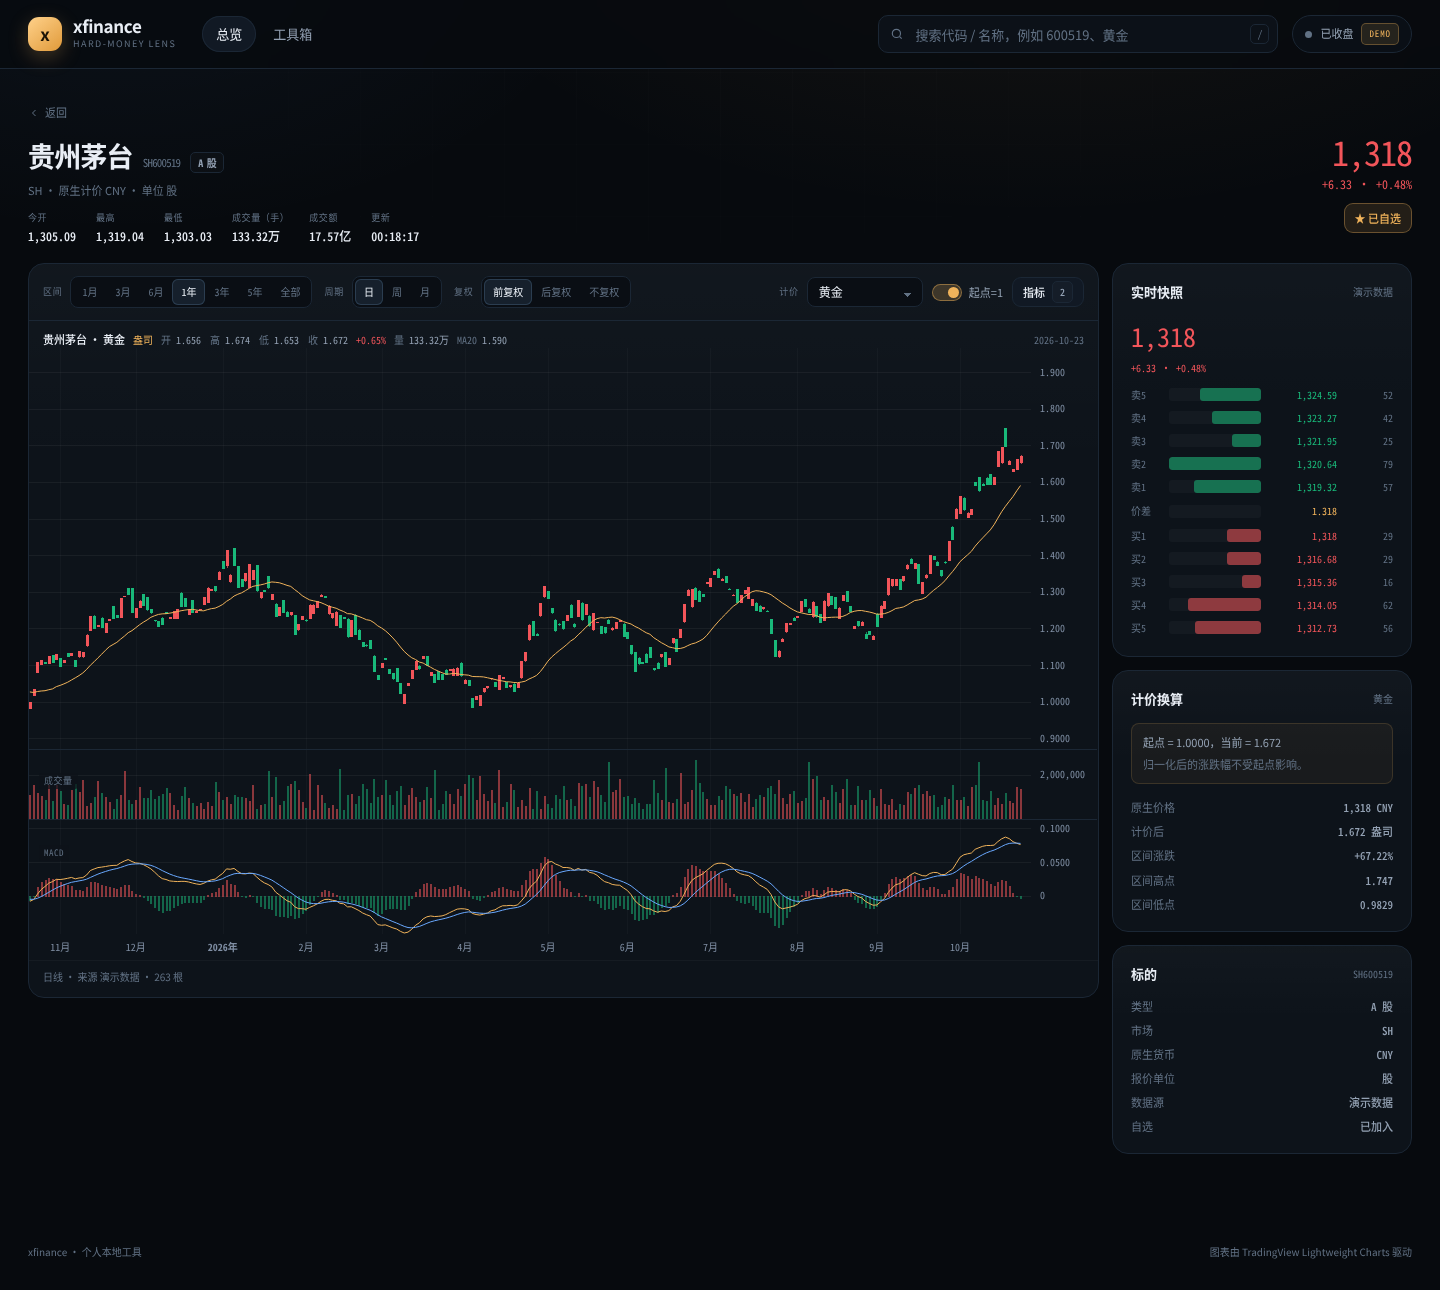
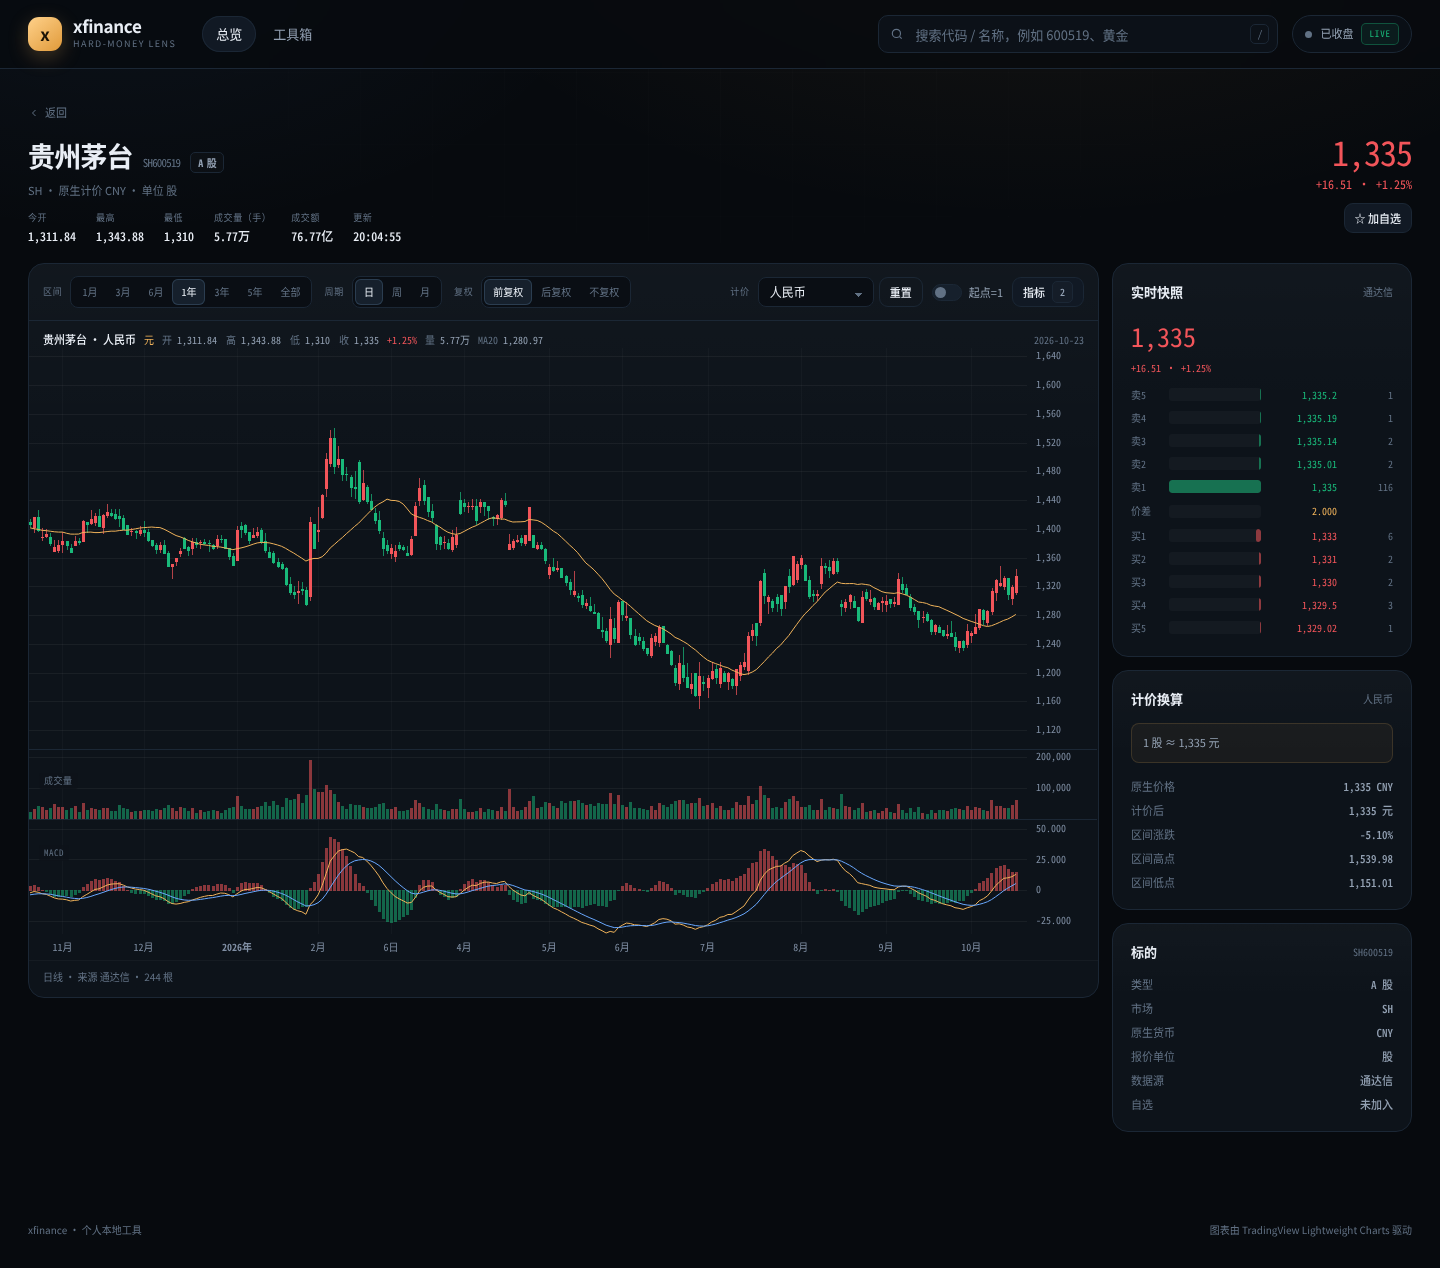
Reset pricing per symbol and clarify percentile distribution

diff --git a/frontend/src/views/CustomIndexView.vue b/frontend/src/views/CustomIndexView.vue
@@ -30,6 +30,44 @@ const windowOptions = [20, 60, 120, 250]
 const meta = computed(() => payload.value?.meta)
 const stats = computed(() => payload.value?.stats)
 
+const percentileSamples = computed(() => {
+  const values = payload.value?.percentile
+  if (!Array.isArray(values)) return []
+  return values.filter((value) => typeof value === 'number' && Number.isFinite(value))
+})
+
+const currentPercentile = computed(() => {
+  const value = stats.value?.percentile
+  if (typeof value !== 'number' || !Number.isFinite(value)) return null
+  return Math.min(100, Math.max(0, value))
+})
+
+const percentileBins = computed(() => {
+  const counts = Array(10).fill(0)
+  for (const value of percentileSamples.value) {
+    counts[Math.min(9, Math.max(0, Math.floor(value / 10)))] += 1
+  }
+  const peak = Math.max(...counts)
+  return counts.map((count, index) => ({
+    index,
+    count,
+    label: index === 9 ? '90-100%' : `${index * 10}-${index * 10 + 9}%`,
+    height: peak ? (count / peak) * 100 : 0,
+  }))
+})
+
+const activeBin = computed(() =>
+  currentPercentile.value === null ? -1 : Math.min(9, Math.floor(currentPercentile.value / 10)),
+)
+
+const percentileState = computed(() => {
+  const value = currentPercentile.value
+  if (value === null) return '分位数据不足'
+  if (value === 0) return '当前 0% · 窗口最低'
+  if (value === 100) return '当前 100% · 窗口最高'
+  return `当前 ${value.toFixed(0)}% · 近 ${windowSize.value} 日分位`
+})
+
 async function load() {
   controller?.abort()
   controller = new AbortController()
@@ -121,7 +159,10 @@ onBeforeUnmount(() => {
 
       <div class="metrics-grid">
         <div class="metric"><span>最新</span><strong>{{ fmtPrice(stats?.last) }}</strong></div>
-        <div class="metric"><span>{{ windowSize }} 日分位</span><strong>{{ stats?.percentile?.toFixed(0) }}%</strong></div>
+        <div class="metric">
+          <span>{{ windowSize }} 日分位</span>
+          <strong>{{ currentPercentile === null ? '—' : currentPercentile.toFixed(0) + '%' }}</strong>
+        </div>
         <div class="metric"><span>区间涨跌</span><strong :class="tone(stats?.change_pct)">{{ fmtPct(stats?.change_pct) }}</strong></div>
         <div class="metric"><span>区间高低</span><strong style="font-size: 13px">{{ fmtPrice(stats?.high) }} / {{ fmtPrice(stats?.low) }}</strong></div>
       </div>
@@ -184,13 +225,45 @@ onBeforeUnmount(() => {
       <section class="panel" style="margin-top: 13px">
         <div class="panel-head">
           <h2 class="panel-title">分位分布</h2>
-          <span class="panel-sub">{{ windowSize }} 日滚动窗口 · 当前 {{ stats?.percentile?.toFixed(0) }}%</span>
+          <span class="panel-sub">
+            {{ windowSize }} 日滚动窗口 · {{ percentileSamples.length }} 个样本
+          </span>
         </div>
-        <div class="pct-bar" style="height: 6px">
-          <span class="pct-fill" :style="{ width: `${stats?.percentile ?? 0}%` }"></span>
+        <div class="pct-current">{{ percentileState }}</div>
+        <div
+          v-if="percentileSamples.length"
+          class="pct-hist"
+          role="img"
+          :aria-label="`滚动分位分布，${percentileState}`"
+        >
+          <div
+            v-for="bin in percentileBins"
+            :key="bin.index"
+            class="pct-hist-col"
+            :class="{ active: bin.index === activeBin }"
+            :title="`${bin.label} · ${bin.count} 个样本`"
+          >
+            <span v-if="bin.count" class="pct-hist-bar" :style="{ height: `${bin.height}%` }"></span>
+          </div>
         </div>
-        <div class="tool-hint" style="margin-top: 9px">
-          0% 表示处在窗口最低位，100% 表示处在最高位。当前值在最近 {{ windowSize }} 个交易日中的相对位置。
+        <div v-else class="pct-hist-empty">当前区间没有可用的滚动分位样本</div>
+        <div class="pct-track" aria-hidden="true">
+          <span
+            v-if="currentPercentile !== null"
+            class="pct-marker"
+            :style="{ left: `${currentPercentile}%` }"
+          ></span>
+        </div>
+        <div class="pct-track-axis">
+          <span>0%</span>
+          <span>50%</span>
+          <span>100%</span>
+        </div>
+        <div class="tool-hint pct-caption">
+          柱高表示滚动分位落在该区间的样本占比。0% 表示当前值处于窗口最低位，是有效值。
+        </div>
+        <div class="tool-hint" style="margin-top: 4px">
+          100% 表示处在最高位。当前值在最近 {{ windowSize }} 个交易日中的相对位置。
         </div>
       </section>
     </template>

diff --git a/frontend/src/views/InstrumentView.vue b/frontend/src/views/InstrumentView.vue
@@ -35,7 +35,7 @@ const timeframe = ref('1d')
 const adjust = ref('qfq')
 const range = ref('1y')
 const normalize = ref(false)
-const numeraire = ref(prefs.numeraire || 'CNY')
+const numeraire = ref('CNY')
 let controller = null
 let snapshotTimer = null
 let snapController = null
@@ -101,6 +101,12 @@ const selectedUnit = computed(() => {
 })
 const quoted = computed(() => chartMeta.value?.quoted !== false && !chartMeta.value?.quote_error)
 const stats = computed(() => chart.value?.stats || null)
+const flatChart = computed(() => {
+  const bars = chart.value?.bars
+  if (!bars || bars.length < 2) return false
+  const first = bars[0].close
+  return bars.every((bar) => Math.abs(bar.close - first) <= 1e-9)
+})
 
 const conversion = computed(() => {
   if (!stats.value || !quoted.value || isYield.value) return null
@@ -221,12 +227,18 @@ async function loadNumeraires() {
   }
 }
 
+function resetPricing() {
+  numeraire.value = 'CNY'
+  normalize.value = false
+}
+
 async function loadAll() {
   loading.value = true
   error.value = ''
   meta.value = null
   snapshot.value = null
   chart.value = null
+  resetPricing()
   await loadNumeraires()
   try {
     await loadMeta()
@@ -281,7 +293,6 @@ watch(
 )
 
 watch([timeframe, adjust, numeraire, normalize, range, indicatorSpec], () => {
-  prefs.numeraire = numeraire.value
   if (!loading.value && meta.value) loadChart()
 })
 
@@ -416,6 +427,14 @@ onBeforeUnmount(() => {
                     </option>
                   </optgroup>
                 </select>
+                <button
+                  class="btn btn-sm btn-ghost"
+                  title="恢复人民币计价，并关闭起点归一化"
+                  :disabled="isYield"
+                  @click="resetPricing"
+                >
+                  重置
+                </button>
               </div>
 
               <label class="switch" :title="isYield ? '收益率不支持归一化' : '把区间起点换算为 1'">
@@ -442,6 +461,10 @@ onBeforeUnmount(() => {
 
           <div v-if="chartMeta?.quote_error" class="chart-note warn">
             计价序列不可用，已回退原生价格：{{ chartMeta.quote_error }}
+          </div>
+
+          <div v-if="flatChart" class="chart-note warn">
+            当前计价下价格恒定，可能是同一资产在用自身计价，请更换计价物。
           </div>
 
           <PriceChart

diff --git a/frontend/src/styles.css b/frontend/src/styles.css
@@ -945,6 +945,106 @@ main {
   letter-spacing: 0.04em;
 }
 
+/* ---------- percentile distribution ---------- */
+
+.pct-current {
+  color: var(--accent);
+  font-family: var(--font-mono);
+  font-size: 12px;
+  font-variant-numeric: tabular-nums;
+}
+
+.pct-hist {
+  display: flex;
+  align-items: flex-end;
+  gap: 4px;
+  width: 100%;
+  max-width: 520px;
+  height: 68px;
+  margin-top: 12px;
+}
+
+.pct-hist-col {
+  display: flex;
+  flex: 1 1 0;
+  align-items: flex-end;
+  min-width: 0;
+  height: 100%;
+  padding: 0 1px;
+  border-radius: 4px;
+  background: rgba(255, 255, 255, 0.03);
+}
+
+.pct-hist-col.active {
+  background: var(--accent-soft);
+  box-shadow: inset 0 0 0 1px rgba(240, 179, 91, 0.32);
+}
+
+.pct-hist-bar {
+  display: block;
+  width: 100%;
+  min-height: 2px;
+  border-radius: 3px;
+  background: var(--blue);
+  opacity: 0.5;
+}
+
+.pct-hist-col.active .pct-hist-bar {
+  background: linear-gradient(180deg, var(--accent), var(--blue));
+  opacity: 1;
+}
+
+.pct-hist-empty {
+  display: flex;
+  align-items: center;
+  justify-content: center;
+  width: 100%;
+  max-width: 520px;
+  height: 68px;
+  margin-top: 12px;
+  border: 1px dashed var(--border);
+  border-radius: var(--radius-sm);
+  color: var(--faint);
+  font-size: 10px;
+}
+
+.pct-track {
+  position: relative;
+  width: 100%;
+  max-width: 520px;
+  height: 4px;
+  margin-top: 14px;
+  border-radius: 999px;
+  background: var(--panel-3);
+}
+
+.pct-marker {
+  position: absolute;
+  top: -5px;
+  width: 2px;
+  height: 14px;
+  border-radius: 1px;
+  background: var(--accent);
+  box-shadow: 0 0 0 2px rgba(240, 179, 91, 0.16);
+  transform: translateX(-50%);
+}
+
+.pct-track-axis {
+  display: flex;
+  justify-content: space-between;
+  width: 100%;
+  max-width: 520px;
+  margin-top: 7px;
+  color: var(--faint);
+  font-family: var(--font-mono);
+  font-size: 9px;
+  letter-spacing: 0.04em;
+}
+
+.pct-caption {
+  margin-top: 9px;
+}
+
 /* ---------- buttons / chips / forms ---------- */
 
 .btn {
@@ -2107,6 +2207,13 @@ textarea.input {
   }
   .seg button {
     padding: 0 8px;
+  }
+  .pct-hist,
+  .pct-hist-empty {
+    height: 56px;
+  }
+  .pct-hist {
+    gap: 3px;
   }
   .side-panel {
     grid-template-columns: minmax(0, 1fr);

diff --git a/frontend/src/composables/useChartPrefs.js b/frontend/src/composables/useChartPrefs.js
@@ -9,14 +9,15 @@ const defaults = {
   macd: true,
   rsi: false,
   kdj: false,
-  numeraire: 'CNY',
 }
 
 function load() {
   try {
     const raw = window.localStorage.getItem(KEY)
     if (!raw) return { ...defaults }
-    return { ...defaults, ...JSON.parse(raw) }
+    const parsed = JSON.parse(raw)
+    delete parsed.numeraire
+    return { ...defaults, ...parsed }
   } catch {
     return { ...defaults }
   }

diff --git a/tests/test_api.py b/tests/test_api.py
@@ -2,6 +2,7 @@ from __future__ import annotations
 
 from uuid import uuid4
 
+import pytest
 from fastapi.testclient import TestClient
 
 
@@ -283,3 +284,33 @@ def test_yield_spread_expression(client: TestClient) -> None:
     data = check.json()["data"]
     assert data["basis"] == "%"
     assert 0 < data["last"] < 10
+
+
+def test_au9999_chart_in_cny_is_not_flat(client: TestClient) -> None:
+    payload = client.get(
+        "/api/instruments/AU9999/chart", params={"range": "1y", "numeraire": "CNY"}
+    ).json()["data"]
+    assert payload["stats"]["high"] > payload["stats"]["low"]
+
+
+def test_same_asset_numeraire_closes_at_one(client: TestClient) -> None:
+    payload = client.get(
+        "/api/instruments/AU9999/chart",
+        params={"range": "1y", "numeraire": "XAU_CNY_G"},
+    ).json()["data"]
+    assert all(bar["close"] == pytest.approx(1.0) for bar in payload["bars"])
+
+
+def test_custom_index_percentile_matches_last_series_value(client: TestClient) -> None:
+    created = client.post(
+        "/api/custom-indices",
+        json={"name": f"分位一致性{uuid4().hex[:8]}", "expression": "XAUUSD / WTIUSD"},
+    )
+    index_id = created.json()["data"]["id"]
+    payload = client.get(
+        f"/api/custom-indices/{index_id}/chart", params={"range": "1y", "window": 60}
+    ).json()["data"]
+    values = [value for value in payload["percentile"] if value is not None]
+    assert values
+    assert payload["stats"]["percentile"] == pytest.approx(values[-1])
+    client.delete(f"/api/custom-indices/{index_id}")

diff --git a/PLAN.md b/PLAN.md
@@ -150,7 +150,7 @@ SQLite WAL + busy_timeout。迁移由 Alembic 管理，启动时 upgrade head。
 | 前端 | 总览、标的、自定义指数、工具箱四个页面可在 Chrome 中操作；桌面与 390px 移动端截图核验，无横向溢出 |
 | 打包 | `uv build` 产出的 wheel 含 `frontend-build` 与迁移；装进全新虚拟环境后 `xfinance-app` 可启动并托管 SPA |
 
-测试总数 79，全部离线。
+测试总数 82，全部离线。
 
 ### 实际取舍
 
@@ -168,3 +168,11 @@ SQLite WAL + busy_timeout。迁移由 Alembic 管理，启动时 upgrade head。
 - 多用户、鉴权、远程部署加固。
 
 这些都不影响个人单机查看这条主路径。
+
+## 后续修复（2026-10-23）
+
+| 反馈 | 根因 | 处理 | 验证 |
+| --- | --- | --- | --- |
+| 计价缺少重置，换标的后沿用旧计价 | 计价物写入 localStorage，跨标的复用 | 换标的时自动回到人民币并关闭归一化，工具栏加“重置”按钮，不再持久化计价物 | 同一 SPA 会话从 XAU 切到 AU9999 后选中项回到 CNY |
+| 上海金进去是一条直线 | 上金所金被选成了“上金所金”自身计价，AU9999 除以自己恒为 1 | 同上；另加恒定价格提示，避免手动选择同一资产时误判为数据缺失 | 直线场景显示警告，重置后恢复 864.00 元/克 |
+| 自定义指数底部分位始终为 0 | 当前值确实处于 60 日窗口最低位，单条进度条宽度为 0 时看起来像坏了 | 改为 10 档滚动分位直方图加 0 到 100 的当前位置刻度，0 和 100 都有可见标记，并标注窗口最低或最高 | 下跌指数显示 0% 与直方图，上涨指数显示 100% 与右端标记 |
